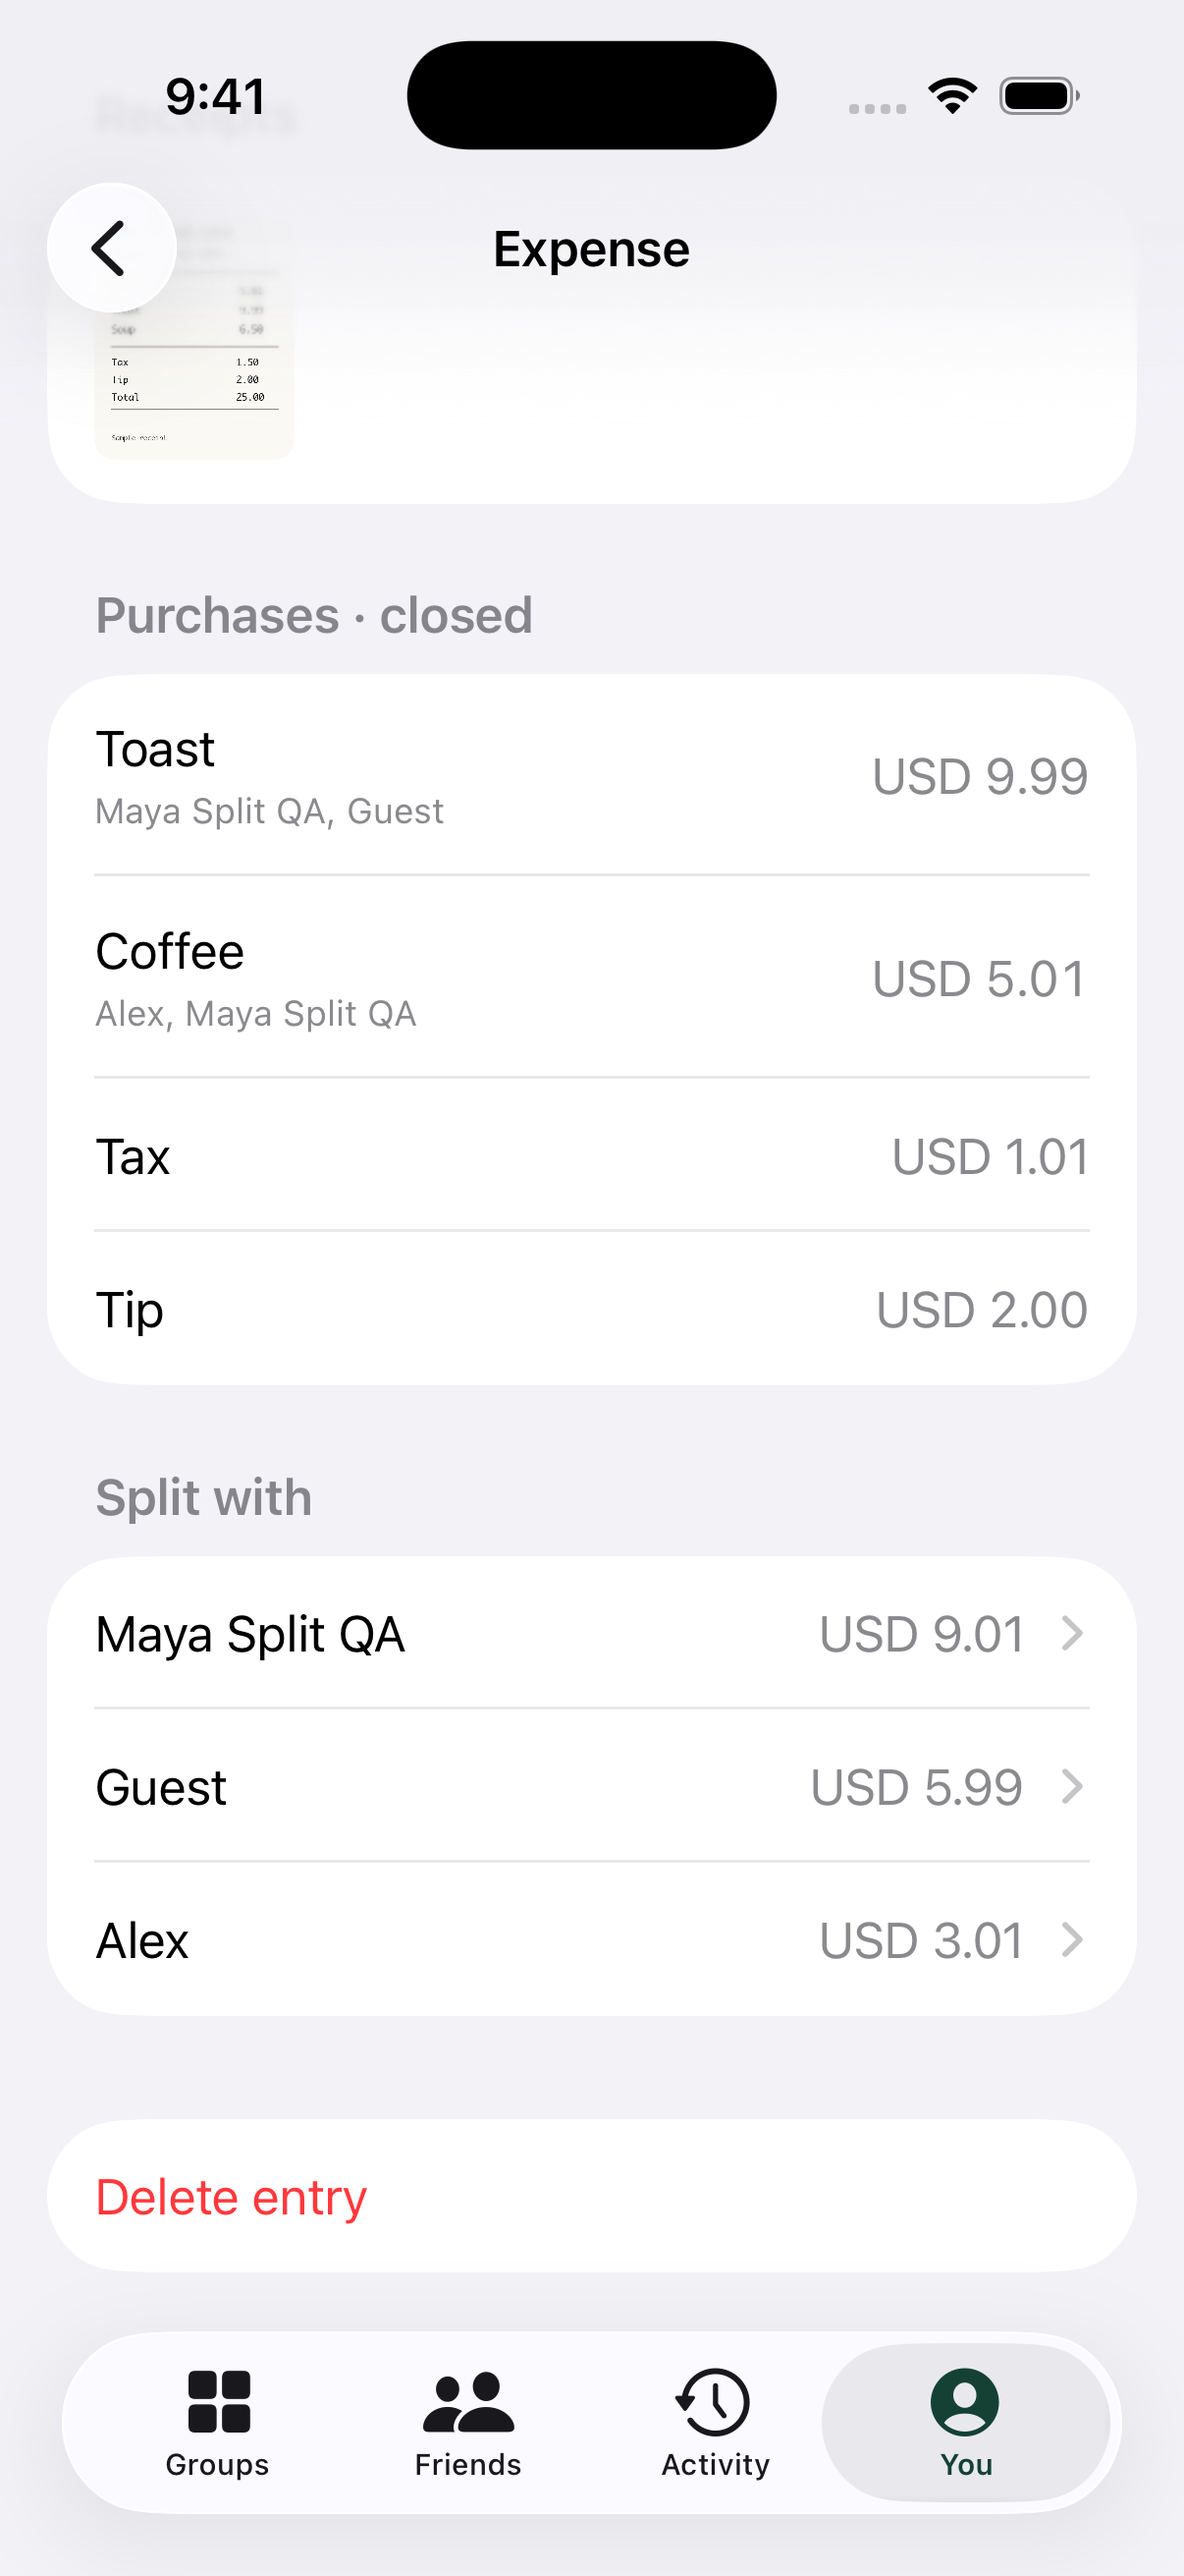
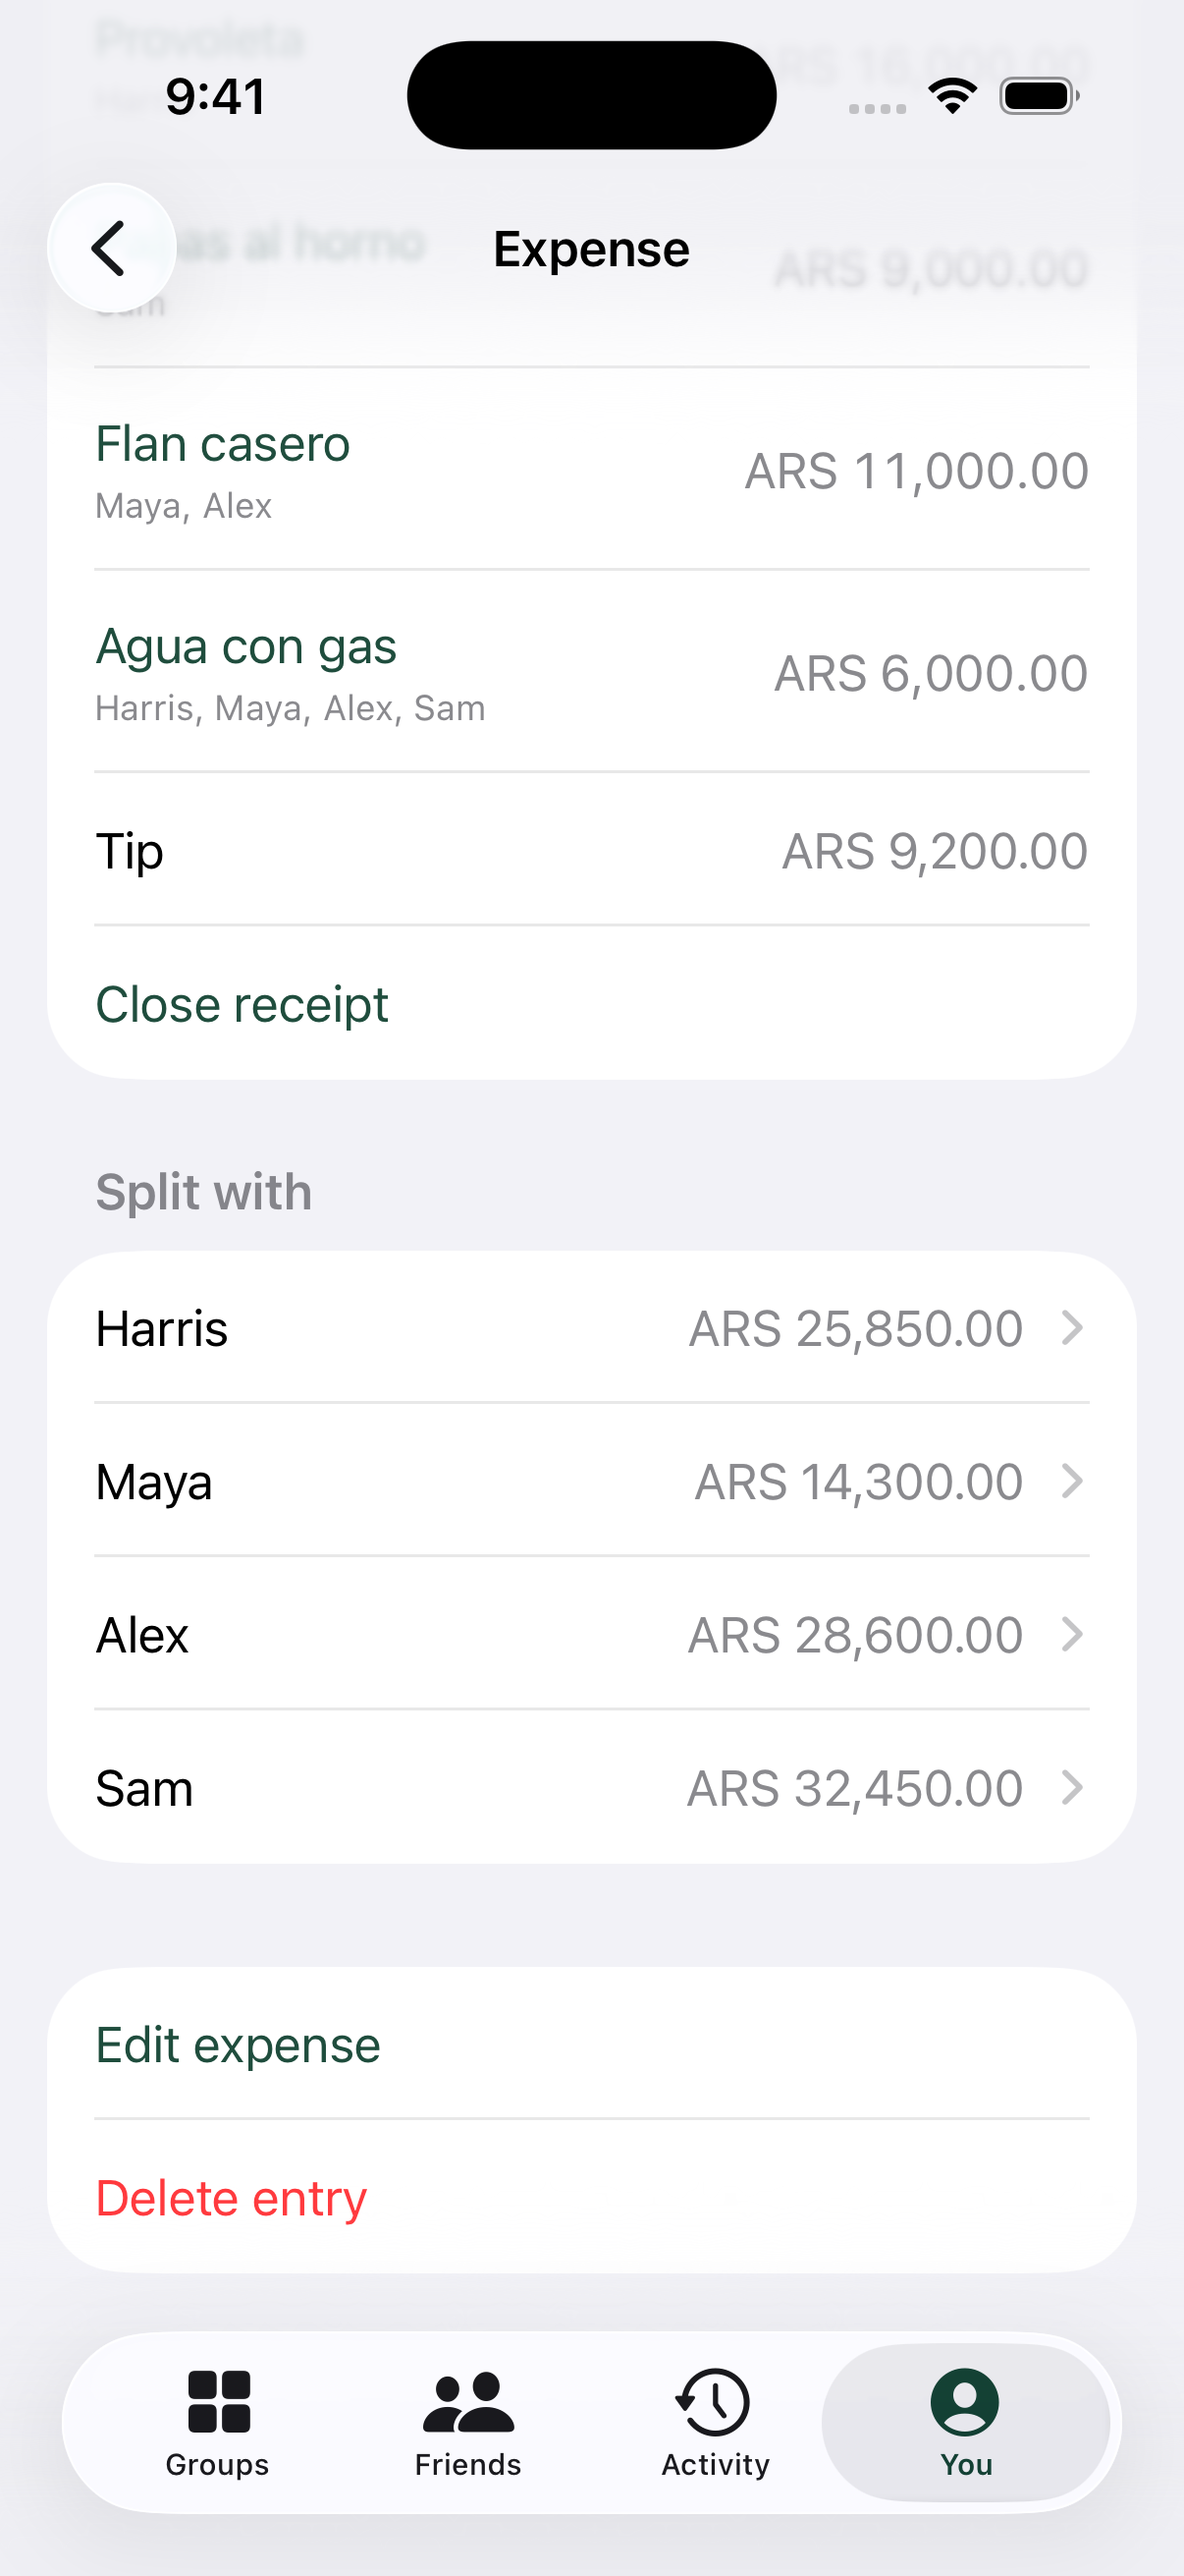
Show the same fictional Buenos Aires trip on both clients and reserve TestFlight build 7

diff --git a/web/src/screens.tsx b/web/src/screens.tsx
@@ -438,7 +438,12 @@ export function GroupScreen() {
     [open, setOpen] = useState(false);
   const g = data.groups.find((g) => g.id === gid);
   if (!g) return <p>Group unavailable.</p>;
-  const entries = data.entries.filter((e) => e.groupID === gid),
+  const entries = data.entries
+      .filter((e) => e.groupID === gid)
+      .sort(
+        (a, b) =>
+          b.createdAt.localeCompare(a.createdAt) || b.id.localeCompare(a.id),
+      ),
     view = query.get("tab") ?? "expenses";
   return (
     <>

diff --git a/README.md b/README.md
@@ -7,8 +7,9 @@ Split is a free web, iPhone and iPad app for tracking shared expenses. Start a t
 [Join the TestFlight beta](https://testflight.apple.com/join/YX8W6bCx) · [Contribute](#contributing) · [Roadmap](ROADMAP.md) · [Changelog](CHANGELOG.md) · [Release and signing](docs/TESTFLIGHT.md) · [Simulator audit](docs/USABILITY.md) · [Screenshot gallery](screenshots/README.md)
 
 <p>
-  <img src="screenshots/light/groups.png" width="225" alt="Split groups in light appearance">
-  <img src="screenshots/dark/receipt.png" width="225" alt="Receipt photos and open purchases in dark appearance">
+  <img src="screenshots/split-drilldown/ios-member-light.png" width="205" alt="Harris’s charges on the Buenos Aires Trip">
+  <img src="screenshots/split-drilldown/ios-receipt-dark.png" width="205" alt="Parrilla dinner with its restaurant receipt and claimed items">
+  <img src="screenshots/split-drilldown/ios-split-with-light.png" width="205" alt="The four diners and their individual shares">
 </p>
 
 ## Using Split
@@ -30,6 +31,11 @@ Supported currencies are USD, ARS, EUR, GBP, BRL, CAD, AUD, and MXN. Amounts use
 [Open Split](https://split.yoinklabs.dev) and sign in with your Yoink account. Create or join a group, add an expense, attach receipt photos, enter line items, claim purchases, or record a payment from Balances. The browser uses the same group memberships and cent allocations as the iOS app. The browser accepts manual receipt items. iOS also offers on-device OCR.
 
 On either client, tap **You** or a person in a group to see their charges. People with several shared groups get a group picker. Tap a charge for the original receipt, purchases and each person's share, then choose another person under **Split with**. A placeholder has its own statement in that group. [Member navigation plan](docs/plans/member-drilldown.md) · [iOS and web screenshots](screenshots/split-drilldown)
+
+<p>
+  <img src="screenshots/split-drilldown/web-balances-desktop.png" width="510" alt="Buenos Aires Trip balances in the desktop web app">
+  <img src="screenshots/split-drilldown/web-member-mobile.png" width="180" alt="Harris’s charge history in a mobile browser">
+</p>
 
 ## Architecture
 

diff --git a/docs/TESTFLIGHT.md b/docs/TESTFLIGHT.md
@@ -1,6 +1,6 @@
 # TestFlight
 
-Split is listed under Undrift LLC in App Store Connect. The bundle is `com.yoinklabs.split`, team `64PUT29XZ8`, App Store Connect app `6836072005`. The member drill-down release uses 0.5.0 (7). The 0.4 release used build 5. It follows the receipts and insights release, 0.3.0 (4), with historical exchange rates, group defaults, payment links, recurring expenses and CSV transfers.
+Split is listed under Undrift LLC in App Store Connect. The bundle is `com.yoinklabs.split`, team `64PUT29XZ8`, App Store Connect app `6836072005`. The member drill-down release uses 0.6.0 (7). The 0.4 release used build 5. It follows the receipts and insights release, 0.3.0 (4), with historical exchange rates, group defaults, payment links, recurring expenses and CSV transfers.
 
 [Public Beta](https://testflight.apple.com/join/YX8W6bCx) · [Live build and beta review status](https://appstoreconnect.apple.com/apps/6836072005/testflight/ios)
 
@@ -25,7 +25,7 @@ The packaging script verifies the profile’s bundle ID, team and expiry, applie
 Upload after the release PR lands and verify the build’s processing state. The distribution groups are Yoink Internal (`6949ab6e-b7d2-4245-9a72-8a095832113f`) and Public Beta (`29476472-8917-4cd6-b916-d0d695dcc90e`).
 
 ```sh
-asc --profile default publish testflight --app 6836072005 --ipa .ade/build/Split-0.5.0-7.ipa --group 29476472-8917-4cd6-b916-d0d695dcc90e --test-notes "Open your profile or a group member, choose a group, then open a charge and a receipt. Select another participant under Split with." --locale en-US --wait --submit --confirm
+asc --profile default publish testflight --app 6836072005 --ipa .ade/build/Split-0.6.0-7.ipa --group 29476472-8917-4cd6-b916-d0d695dcc90e --test-notes "Open your profile or a group member, choose a group, then open a charge and a receipt. Select another participant under Split with." --locale en-US --wait --submit --confirm
 ```
 
 Confirm both group relationships, the internal testing state and the external review submission in App Store Connect.

diff --git a/docs/plans/member-drilldown.md b/docs/plans/member-drilldown.md
@@ -272,7 +272,7 @@ Signed in as a QA user at 390 px wide: open a group → Balances → self → an
 
 - **Shape:** `npm run build --prefix web` produces `web/dist`; `wrangler deploy` on the existing `split-api` Worker uploads code and assets together. `split.yoinklabs.dev` is a second custom domain on that Worker. Nothing new is billed: static asset requests are free and unlimited, and API calls share the existing 100,000 requests per day.
 - **Routing:** the paths in `run_worker_first` reach the Worker exactly as today (API, MCP, health, invitation page, device page, universal-link association). Everything else is an asset or the app shell. The app redirects to `split.yoinklabs.dev` if opened on the API hostname.
-- **Clerk:** you confirmed the Clerk Frontend API already answers `split.yoinklabs.dev` with HTTP 200 and the exact `Access-Control-Allow-Origin`, so no Clerk dashboard change is planned. Production keys are tied to the `yoinklabs.dev` domain, so sign-in cannot work on `workers.dev` preview URLs or plain `localhost`.
+- **Clerk:** an initial environment request returned 200 for the origin. During signed-in browser verification Clerk required its subdomain allowlist entry. The release appended `split.yoinklabs.dev` and preserved the existing entries. Production keys are tied to the `yoinklabs.dev` domain, so sign-in cannot work on `workers.dev` preview URLs or plain `localhost`.
 - **iOS is unaffected:** universal links and invite parsing stay on `split-api.yoinklabs.dev`.
 - **Checks:** add a `web` job to `.github/workflows/checks.yml` and to `scripts/check.sh` (typecheck, unit tests, build). The Worker's Vitest setup reads `wrangler.jsonc`; build the web app first, or confirm a missing `web/dist` does not break it.
 - **Release sequence**

diff --git a/screenshots/README.md b/screenshots/README.md
@@ -26,3 +26,7 @@ The gallery shows the 0.3 receipt release and 0.4 group tools on the lane-owned 
 | Member charges and group picker | [Light](split-drilldown/ios-member-light.png) | [Dark](split-drilldown/ios-member-dark.png) |
 | Original expense and receipt | [Light](split-drilldown/ios-receipt-light.png) | [Dark](split-drilldown/ios-receipt-dark.png) |
 | Claims and split-with amounts | [Light](split-drilldown/ios-split-with-light.png) | [Dark](split-drilldown/ios-split-with-dark.png) |
+
+The Buenos Aires Trip is fictional. Harris, Maya, Alex and Sam share five charges including a six-item restaurant receipt. The production web captures use the same seeded demo group.
+
+[Desktop balances](split-drilldown/web-balances-desktop.png) · [Mobile member charges](split-drilldown/web-member-mobile.png) · [Mobile receipt in dark mode](split-drilldown/web-receipt-mobile-dark.png)
